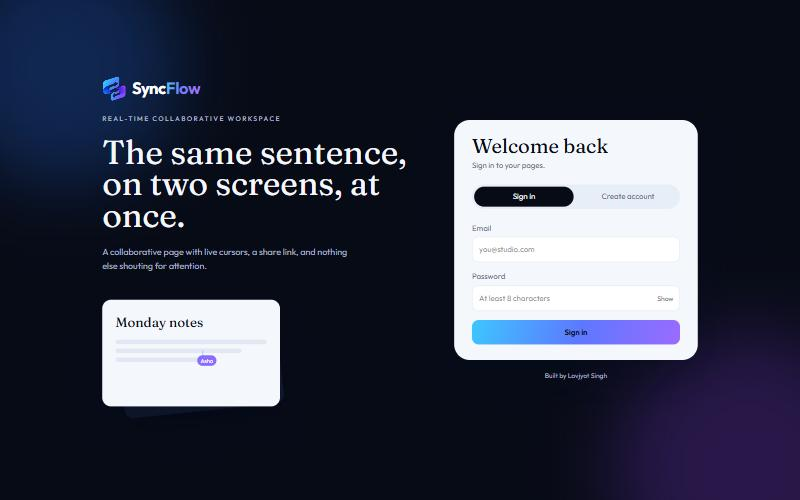
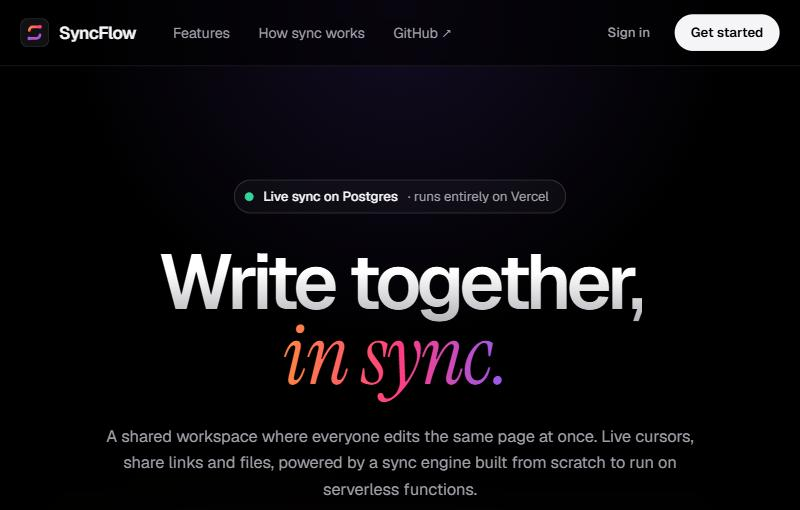
Update SyncFlow on the portfolio for its serverless rebuild.
New screenshot, a description of the HTTP sync engine on Postgres and
Vercel Blob, and role-fit proofs for Postgres, testing and serverless.

diff --git a/index.html b/index.html
@@ -340,7 +340,7 @@ footer a:hover{color:var(--ink)}
 </section>
 
 <div class="marquee" aria-hidden="true">
-  <div class="mq"><span>React</span><span>Next.js</span><span>TypeScript</span><span>Node.js</span><span>Express</span><span>Socket.io</span><span>Yjs</span><span>Redis</span><span>MongoDB</span><span>Tailwind CSS</span><span>Docker</span><span>Vercel</span><span>React</span><span>Next.js</span><span>TypeScript</span><span>Node.js</span><span>Express</span><span>Socket.io</span><span>Yjs</span><span>Redis</span><span>MongoDB</span><span>Tailwind CSS</span><span>Docker</span><span>Vercel</span></div>
+  <div class="mq"><span>React</span><span>Next.js</span><span>TypeScript</span><span>Node.js</span><span>Express</span><span>Socket.io</span><span>Yjs</span><span>Redis</span><span>MongoDB</span><span>Postgres</span><span>Tailwind CSS</span><span>Docker</span><span>Vercel</span><span>React</span><span>Next.js</span><span>TypeScript</span><span>Node.js</span><span>Express</span><span>Socket.io</span><span>Yjs</span><span>Redis</span><span>MongoDB</span><span>Postgres</span><span>Tailwind CSS</span><span>Docker</span><span>Vercel</span></div>
 </div>
 
 <!-- ================= ABOUT ================= -->
@@ -383,7 +383,7 @@ footer a:hover{color:var(--ink)}
         <div class="stack-rows">
           <div><h4>Languages</h4><ul><li>TypeScript</li><li>JavaScript</li><li>Java</li><li>SQL</li><li>HTML &amp; CSS</li></ul></div>
           <div><h4>Frameworks</h4><ul><li>React.js</li><li>Next.js</li><li>Node.js</li><li>Express.js</li><li>Socket.io</li><li>Tailwind CSS</li></ul></div>
-          <div><h4>Data &amp; cloud</h4><ul><li>MongoDB</li><li>MySQL</li><li>Redis</li><li>Docker</li><li>Vercel</li><li>Render</li></ul></div>
+          <div><h4>Data &amp; cloud</h4><ul><li>PostgreSQL</li><li>MongoDB</li><li>MySQL</li><li>Redis</li><li>Docker</li><li>Vercel</li><li>Render</li></ul></div>
           <div><h4>Tools &amp; DevOps</h4><ul><li>REST APIs</li><li>Microservices</li><li>JWT auth</li><li>Webhooks</li><li>CI/CD</li><li>Git &amp; Postman</li></ul></div>
           <div><h4>Fundamentals</h4><ul><li>DSA</li><li>System design (HLD/LLD)</li><li>DBMS</li><li>Operating systems</li><li>Computer networks</li></ul></div>
         </div>
@@ -406,13 +406,13 @@ footer a:hover{color:var(--ink)}
         <div class="p-text">
           <span class="p-meta"><i aria-hidden="true"></i>Live · Real-time collaborative workspace</span>
           <h3>SyncFlow</h3>
-          <p class="p-desc">A multiplayer block editor. People edit the same page at once, edits merge without conflicts, and a reload restores everything.</p>
+          <p class="p-desc">A multiplayer block editor that runs entirely on Vercel. People edit the same page at once with live cursors, and a sync engine I built from scratch keeps everyone in step without a single server.</p>
           <ul class="p-points">
-            <li><svg viewBox="0 0 16 16" fill="none" aria-hidden="true"><path d="m3 8.5 3 3 7-7" stroke="currentColor" stroke-width="2" stroke-linecap="round" stroke-linejoin="round"/></svg><span><b>Real-time sync.</b> Next.js 16, TypeScript and BlockNote, with edits merged through Yjs and broadcast over Socket.io.</span></li>
-            <li><svg viewBox="0 0 16 16" fill="none" aria-hidden="true"><path d="m3 8.5 3 3 7-7" stroke="currentColor" stroke-width="2" stroke-linecap="round" stroke-linejoin="round"/></svg><span><b>Persistence.</b> Live state saved to Redis after 700&nbsp;ms of quiet (30-day TTL); members, share tokens and files in MongoDB.</span></li>
-            <li><svg viewBox="0 0 16 16" fill="none" aria-hidden="true"><path d="m3 8.5 3 3 7-7" stroke="currentColor" stroke-width="2" stroke-linecap="round" stroke-linejoin="round"/></svg><span><b>Access.</b> JWT checked on every room join, rotatable share links, email invites and member-only uploads up to 10&nbsp;MB.</span></li>
+            <li><svg viewBox="0 0 16 16" fill="none" aria-hidden="true"><path d="m3 8.5 3 3 7-7" stroke="currentColor" stroke-width="2" stroke-linecap="round" stroke-linejoin="round"/></svg><span><b>Serverless sync engine.</b> A custom Yjs provider syncs over plain HTTP instead of WebSockets, polling every 350&nbsp;ms while anyone types, with one Postgres transaction per round trip.</span></li>
+            <li><svg viewBox="0 0 16 16" fill="none" aria-hidden="true"><path d="m3 8.5 3 3 7-7" stroke="currentColor" stroke-width="2" stroke-linecap="round" stroke-linejoin="round"/></svg><span><b>No lost edits.</b> An append-only update log in Postgres (Neon), a 3&nbsp;s settle window so no concurrent edit is skipped, and background compaction into snapshots. Tested against a real Postgres.</span></li>
+            <li><svg viewBox="0 0 16 16" fill="none" aria-hidden="true"><path d="m3 8.5 3 3 7-7" stroke="currentColor" stroke-width="2" stroke-linecap="round" stroke-linejoin="round"/></svg><span><b>Sharing.</b> Signed session cookies, rotatable share links, email invites that wait for sign-up, and files on Vercel Blob.</span></li>
           </ul>
-          <div class="chips"><span class="chip">Next.js 16</span><span class="chip">TypeScript</span><span class="chip">Yjs</span><span class="chip">Socket.io</span><span class="chip">Redis</span><span class="chip">MongoDB</span></div>
+          <div class="chips"><span class="chip">Next.js 16</span><span class="chip">TypeScript</span><span class="chip">Yjs</span><span class="chip">BlockNote</span><span class="chip">Postgres · Neon</span><span class="chip">Vercel Blob</span></div>
           <div class="p-links">
             <a class="btn solid" href="https://syncflow-sss.vercel.app" target="_blank" rel="noopener">Visit live site ↗</a>
             <a class="btn" href="https://github.com/LovjyotSingh/SyncFlow" target="_blank" rel="noopener">Source code</a>
@@ -421,7 +421,7 @@ footer a:hover{color:var(--ink)}
         <div class="p-visual">
           <figure class="shot">
             <div class="shot-bar" aria-hidden="true"><i></i><i></i><i></i><span>syncflow-sss.vercel.app</span></div>
-            <img src="assets/syncflow.jpg" width="800" height="500" alt="SyncFlow sign-in page with the headline: the same sentence, on two screens, at once." loading="lazy">
+            <img src="assets/syncflow.jpg" width="800" height="510" alt="SyncFlow home page with the headline: write together, in sync." loading="lazy">
           </figure>
         </div>
         <details class="try">
@@ -445,7 +445,7 @@ footer a:hover{color:var(--ink)}
               </div>
               <div class="statusbar"><span>Updates sent <b id="ops">0</b></span><span><i class="sdot" id="sdot"></i><span id="stxt">Saved</span></span></div>
             </div>
-            <p class="ex-note">Type in either tab. The change appears in the other one and saves after 700 ms of quiet. A simplified model of the real sync loop.</p>
+            <p class="ex-note">Type in either tab. The change crosses over and is stored, like SyncFlow posting your edits and pulling everyone else's. A simplified model of the real sync loop.</p>
           </div>
         </details>
       </article>
@@ -637,9 +637,9 @@ footer a:hover{color:var(--ink)}
       ops.textContent = ++opn;
       pane.classList.add('flash'); setTimeout(() => pane.classList.remove('flash'), 220);
     }, ms);
-    sdot.classList.add('busy'); stxt.textContent = 'Waiting for 700 ms of quiet…';
+    sdot.classList.add('busy'); stxt.textContent = 'Syncing…';
     clearTimeout(saveT);
-    saveT = setTimeout(() => { sdot.classList.remove('busy'); stxt.textContent = 'Saved to Redis · 30-day TTL'; }, 700);
+    saveT = setTimeout(() => { sdot.classList.remove('busy'); stxt.textContent = 'Stored in Postgres'; }, 700);
   }
   ta.addEventListener('input', () => sync(ta, tb, $('#paneB'), $('#latB')));
   tb.addEventListener('input', () => sync(tb, ta, $('#paneA'), $('#latA')));
@@ -678,28 +678,28 @@ footer a:hover{color:var(--ink)}
   /* Role fit check */
   const SK = [
     { k: 'React', t: s => /\breact(\.?js)?\b(?!\s*native)/i.test(s), has: 1, p: 'Built the OfferForge AI client in React and Vite.' },
-    { k: 'Next.js', t: s => /\bnext\.?js\b/i.test(s), has: 1, p: 'SyncFlow is a Next.js 16 app.' },
+    { k: 'Next.js', t: s => /\bnext\.?js\b/i.test(s), has: 1, p: 'SyncFlow is a Next.js 16 app, API included.' },
     { k: 'TypeScript', t: s => /typescript/i.test(s), has: 1, p: 'SyncFlow is written in TypeScript.' },
     { k: 'JavaScript', t: s => /javascript|\bes6\b|\bjs\b/i.test(s), has: 1, p: 'Core language across all my projects.' },
     { k: 'HTML & CSS', t: s => /\bhtml5?\b|\bcss3?\b/i.test(s), has: 1, p: 'Hand-built interfaces for every project.' },
     { k: 'Tailwind CSS', t: s => /tailwind/i.test(s), has: 1, p: 'Used in ExpenseFlow and the IBM front-end track.' },
-    { k: 'Node.js', t: s => /\bnode(\.?js)?\b/i.test(s), has: 1, p: 'SyncFlow runs a long-lived Node server for Socket.io.' },
+    { k: 'Node.js', t: s => /\bnode(\.?js)?\b/i.test(s), has: 1, p: 'Node APIs on Express (OfferForge, BlogHub) and Next.js route handlers (SyncFlow).' },
     { k: 'Express', t: s => /\bexpress(\.?js)?\b/i.test(s), has: 1, p: 'The OfferForge API, BlogHub API and TaskSphere run on Express.' },
-    { k: 'Real-time / WebSockets', t: s => /socket\.?io|websocket|real[\s-]?time/i.test(s), has: 1, p: 'SyncFlow broadcasts every edit over Socket.io.' },
+    { k: 'Real-time / WebSockets', t: s => /socket\.?io|websocket|real[\s-]?time/i.test(s), has: 1, p: 'Built SyncFlow''s real-time sync: first on Socket.io, now a serverless Yjs engine over HTTP.' },
     { k: 'MongoDB', t: s => /mongo/i.test(s), has: 1, p: 'Auth, sessions, membership and files in MongoDB.' },
     { k: 'NoSQL', t: s => /nosql/i.test(s), has: 1, p: 'MongoDB and Redis in production projects.' },
     { k: 'SQL / MySQL', t: s => /\bmysql\b|\bsql\b/i.test(s), has: 1, p: 'SQL and MySQL are core skills, with DBMS coursework.' },
-    { k: 'Redis', t: s => /redis/i.test(s), has: 1, p: 'SyncFlow saves live documents to Redis; SwiftShelf uses Redis locks.' },
+    { k: 'Redis', t: s => /redis/i.test(s), has: 1, p: 'SwiftShelf uses Redis locks written as Lua scripts.' },
     { k: 'REST APIs', t: s => /\bREST(ful)?\b/.test(s) || /restful|rest\s*apis?/i.test(s), has: 1, p: 'Designed the BlogHub API and the Express API behind OfferForge.' },
-    { k: 'Auth / JWT', t: s => /\bjwt\b|authenticat|authoriz/i.test(s), has: 1, p: 'JWT checked on every SyncFlow room join, and JWT auth in OfferForge.' },
+    { k: 'Auth / JWT', t: s => /\bjwt\b|authenticat|authoriz/i.test(s), has: 1, p: 'JWT auth in OfferForge and signed session cookies in SyncFlow.' },
     { k: 'Role-based access', t: s => /\brbac\b|role[- ]based/i.test(s), has: 1, p: 'BlogHub API has user, author and admin roles.' },
     { k: 'Docker', t: s => /docker|container/i.test(s), has: 1, p: 'Docker is part of my core stack.' },
     { k: 'CI/CD', t: s => /ci\s*\/\s*cd|continuous (integration|delivery|deployment)/i.test(s), has: 1, p: 'CI/CD pipelines are part of my core stack.' },
     { k: 'Git', t: s => /\bgit\b|github|version control/i.test(s), has: 1, p: 'All my projects are public on GitHub.' },
     { k: 'Deployment', t: s => /vercel|deploy/i.test(s), has: 1, p: 'SyncFlow and OfferForge AI are deployed and live on Vercel.' },
-    { k: 'Microservices', t: s => /micro-?services?/i.test(s), has: 1, p: 'In my core skills. SyncFlow runs its web app and socket server separately.' },
+    { k: 'Microservices', t: s => /micro-?services?/i.test(s), has: 1, p: 'Microservices are part of my core skills.' },
     { k: 'Webhooks', t: s => /webhook/i.test(s), has: 1, p: 'Webhooks are part of my core skills.' },
-    { k: 'System design', t: s => /system design|\bhld\b|\blld\b|scalab|architect/i.test(s), has: 1, p: 'HLD/LLD, and I designed SyncFlow\'s sync and persistence layers.' },
+    { k: 'System design', t: s => /system design|\bhld\b|\blld\b|scalab|architect/i.test(s), has: 1, p: 'HLD/LLD, and I designed SyncFlow\'s serverless sync protocol and storage.' },
     { k: 'DSA', t: s => /data structures?|algorithm|\bdsa\b|problem[- ]solving/i.test(s), has: 1, p: '200+ problems solved, with solutions on GitHub.' },
     { k: 'OOP', t: s => /\boops?\b|object[- ]oriented/i.test(s), has: 1, p: 'Java and TypeScript.' },
     { k: 'Java', t: s => /\bjava\b(?!\s*script)/i.test(s), has: 1, p: 'Java is one of my core languages.' },
@@ -708,12 +708,15 @@ footer a:hover{color:var(--ink)}
     { k: 'Accessibility', t: s => /accessib|a11y|wcag|\baria\b/i.test(s), has: 1, p: 'Accessibility standards were part of the IBM front-end track.' },
     { k: 'State management', t: s => /state management|manage state/i.test(s), has: 1, p: 'State management patterns from the IBM front-end track.' },
     { k: 'Component architecture', t: s => /component|design system|reusable/i.test(s), has: 1, p: 'Component architecture from the IBM front-end track.' },
+    { k: 'PostgreSQL', t: s => /postgres/i.test(s), has: 1, p: 'SyncFlow stores its update log, snapshots and presence in Postgres on Neon.' },
+    { k: 'Testing', t: s => /\bjest\b|vitest|cypress|playwright|unit test|testing library|\btdd\b|automated test/i.test(s), has: 1, p: 'SyncFlow''s sync engine is tested with Vitest against an in-memory Postgres.' },
+    { k: 'Serverless', t: s => /serverless|lambda|edge function|vercel function/i.test(s), has: 1, p: 'SyncFlow runs entirely on Vercel Functions, with no long-running server.' },
     { k: 'CS fundamentals', t: s => /operating system|computer network|\bdbms\b|cs fundamentals/i.test(s), has: 1, p: 'DBMS, operating systems and computer networks.' },
     { k: 'Redux', t: s => /redux|zustand|mobx/i.test(s) }, { k: 'Vue', t: s => /\bvue/i.test(s) }, { k: 'Angular', t: s => /angular/i.test(s) },
     { k: 'Svelte', t: s => /svelte/i.test(s) }, { k: 'GraphQL', t: s => /graphql/i.test(s) }, { k: 'Python', t: s => /python|django|flask|fastapi/i.test(s) },
     { k: 'Go', t: s => /\bgolang\b/i.test(s) }, { k: 'AWS', t: s => /\baws\b|amazon web services/i.test(s) }, { k: 'GCP', t: s => /\bgcp\b|google cloud/i.test(s) },
-    { k: 'Azure', t: s => /azure/i.test(s) }, { k: 'Kubernetes', t: s => /kubernetes|\bk8s\b/i.test(s) }, { k: 'PostgreSQL', t: s => /postgres/i.test(s) },
-    { k: 'Testing (Jest, Cypress…)', t: s => /\bjest\b|cypress|playwright|unit test|testing library|\btdd\b/i.test(s) }, { k: 'React Native', t: s => /react\s*native/i.test(s) },
+    { k: 'Azure', t: s => /azure/i.test(s) }, { k: 'Kubernetes', t: s => /kubernetes|\bk8s\b/i.test(s) }, 
+     { k: 'React Native', t: s => /react\s*native/i.test(s) },
     { k: 'Spring', t: s => /spring\s*boot|\bspring framework/i.test(s) }, { k: 'Kafka', t: s => /kafka/i.test(s) }, { k: 'Figma', t: s => /figma/i.test(s) },
     { k: 'PHP', t: s => /\bphp\b|laravel/i.test(s) }, { k: 'C++', t: s => /c\+\+/i.test(s) }
   ];
